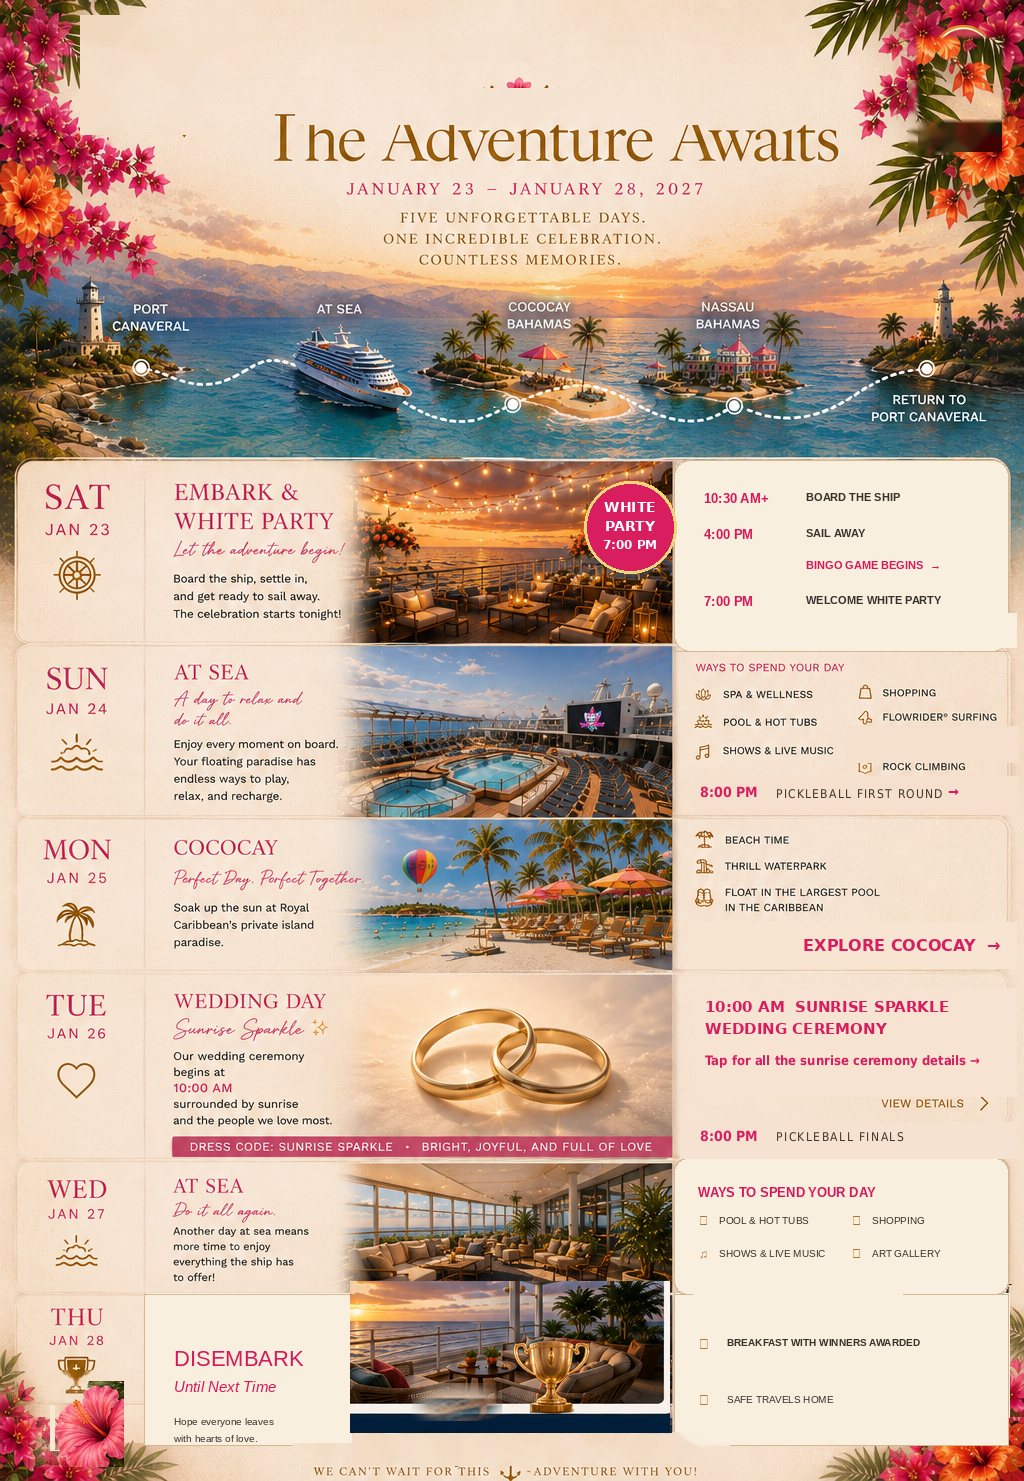
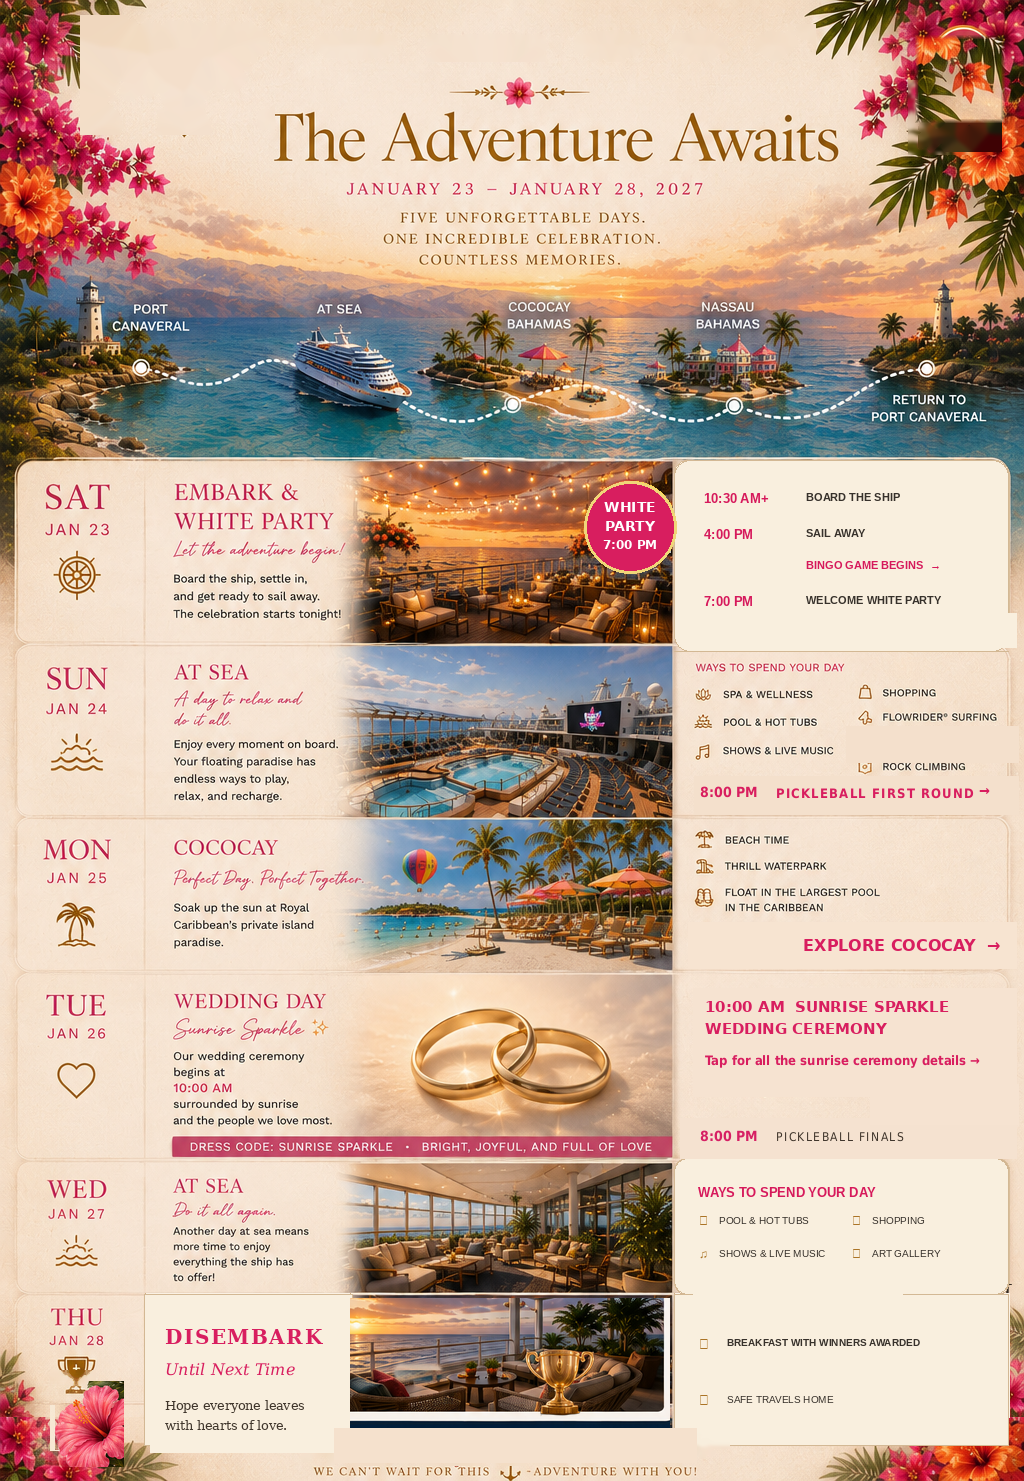
v35round2wesedits

diff --git a/wedding-day.html b/wedding-day.html
@@ -1,8 +1,8 @@
-<!doctype html><html lang="en"><head><meta charset="utf-8"><meta name="viewport" content="width=device-width,initial-scale=1"><title>Wedding Day | Julia & Wesley</title><link rel="preconnect" href="https://fonts.googleapis.com"><link rel="preconnect" href="https://fonts.gstatic.com" crossorigin><link href="https://fonts.googleapis.com/css2?family=Great+Vibes&family=Playfair+Display:ital,wght@0,600;0,700;1,600&display=swap" rel="stylesheet"><link rel="stylesheet" href="css/site.css?v=34"></head><body>
+<!doctype html><html lang="en"><head><meta charset="utf-8"><meta name="viewport" content="width=device-width,initial-scale=1"><title>Wedding Day | Julia & Wesley</title><link rel="preconnect" href="https://fonts.googleapis.com"><link rel="preconnect" href="https://fonts.gstatic.com" crossorigin><link href="https://fonts.googleapis.com/css2?family=Great+Vibes&family=Playfair+Display:ital,wght@0,600;0,700;1,600&display=swap" rel="stylesheet"><link rel="stylesheet" href="css/site.css?v=35"></head><body>
 <nav class="site-nav" aria-label="Primary navigation">
   <a class="sn-logo" href="index.html?skip=1"><span class="word">HARRISONS</span><span class="script">Set Sail</span><span class="anch">⚓</span></a>
   <div class="sn-links"><a href="index.html?skip=1">Home</a><a href="our-story.html">Our Story</a><a href="adventure.html" aria-current="page">The Adventure</a><a href="explore.html">Explore</a><a href="travel.html">Travel</a><a href="rsvp.html">RSVP</a></div>
   <a class="sn-badge" href="index.html?skip=1" aria-label="Home">⚓</a>
-</nav><main class="page-shell"><img class="approved-page" src="assets/approved/wedding-day-v2.png" alt="Wedding Day approved design"><a class="hotspot" aria-label="Room service — see how it works (Royal Caribbean)" href="https://www.royalcaribbean.com/cruise-dining/room-service" target="_blank" rel="noopener" style="left:51%;top:45.6%;width:16%;height:2%"></a>
-<a class="hotspot" aria-label="Room service menu and how it works (Royal Caribbean)" href="https://www.royalcaribbean.com/cruise-dining/room-service" target="_blank" rel="noopener" style="left:35%;top:93.2%;width:20%;height:1.8%"></a>
+</nav><main class="page-shell"><img class="approved-page" src="assets/approved/wedding-day-v2.png" alt="Wedding Day approved design"><a class="hotspot" aria-label="Room service — see how it works (Royal Caribbean)" href="https://www.royalcaribbean.com/cruise-dining/room-service" target="_blank" rel="noopener" style="left:54.8%;top:47.5%;width:14%;height:2.1%"></a>
+<a class="hotspot" aria-label="Room service menu and how it works (Royal Caribbean)" href="https://www.royalcaribbean.com/cruise-dining/room-service" target="_blank" rel="noopener" style="left:20%;top:94.8%;width:18.5%;height:2.1%"></a>
 </main></body></html>

diff --git a/adventure.html b/adventure.html
@@ -1,4 +1,4 @@
-<!doctype html><html lang="en"><head><meta charset="utf-8"><meta name="viewport" content="width=device-width,initial-scale=1"><title>The Adventure | Julia & Wesley</title><link rel="preconnect" href="https://fonts.googleapis.com"><link rel="preconnect" href="https://fonts.gstatic.com" crossorigin><link href="https://fonts.googleapis.com/css2?family=Great+Vibes&display=swap" rel="stylesheet"><link rel="stylesheet" href="css/site.css?v=34"></head><body>
+<!doctype html><html lang="en"><head><meta charset="utf-8"><meta name="viewport" content="width=device-width,initial-scale=1"><title>The Adventure | Julia & Wesley</title><link rel="preconnect" href="https://fonts.googleapis.com"><link rel="preconnect" href="https://fonts.gstatic.com" crossorigin><link href="https://fonts.googleapis.com/css2?family=Great+Vibes&display=swap" rel="stylesheet"><link rel="stylesheet" href="css/site.css?v=35"></head><body>
 <nav class="site-nav" aria-label="Primary navigation">
   <a class="sn-logo" href="index.html?skip=1"><span class="word">HARRISONS</span><span class="script">Set Sail</span><span class="anch">⚓</span></a>
   <div class="sn-links"><a href="index.html?skip=1">Home</a><a href="our-story.html">Our Story</a><a href="adventure.html" aria-current="page">The Adventure</a><a href="explore.html">Explore</a><a href="travel.html">Travel</a><a href="rsvp.html">RSVP</a></div>
@@ -8,7 +8,6 @@
 <a class="adventure-hotspot adventure-bingo-link" aria-label="Open Bingo Adventure" href="bingo.html" title="Bingo Adventure"></a>
 <a class="adventure-hotspot adventure-pickleball-link" aria-label="Open Pickleball Tournament" href="pickleball.html" title="Pickleball Tournament"></a>
 <a class="hotspot" aria-label="Explore CocoCay" href="cococay.html" style="left:74%;top:62.8%;width:25%;height:2.6%"></a><a class="hotspot" aria-label="Sunrise Sparkle wedding ceremony — all the details" href="wedding-day.html" style="left:66.5%;top:66.4%;width:32%;height:5.6%"></a>
-<a class="hotspot" aria-label="Wedding day — view details" href="wedding-day.html" style="left:82%;top:73.5%;width:16.5%;height:1.8%"></a>
 <a class="hotspot" aria-label="Pickleball first round — Sunday Jan 24, 8 PM" href="pickleball.html" style="left:66%;top:52.4%;width:32%;height:1.9%"></a>
 <a class="hotspot" aria-label="Bingo game begins" href="bingo.html" style="left:66%;top:37.2%;width:26%;height:1.8%"></a>
 </main></body></html>

diff --git a/cococay.html b/cococay.html
@@ -1,6 +1,7 @@
-<!doctype html><html lang="en"><head><meta charset="utf-8"><meta name="viewport" content="width=device-width,initial-scale=1"><title>Perfect Day at CocoCay | Julia & Wesley</title><link rel="preconnect" href="https://fonts.googleapis.com"><link rel="preconnect" href="https://fonts.gstatic.com" crossorigin><link href="https://fonts.googleapis.com/css2?family=Great+Vibes&family=Playfair+Display:ital,wght@0,600;0,700;1,600&display=swap" rel="stylesheet"><link rel="stylesheet" href="css/site.css?v=34"></head><body>
+<!doctype html><html lang="en"><head><meta charset="utf-8"><meta name="viewport" content="width=device-width,initial-scale=1"><title>Perfect Day at CocoCay | Julia & Wesley</title><link rel="preconnect" href="https://fonts.googleapis.com"><link rel="preconnect" href="https://fonts.gstatic.com" crossorigin><link href="https://fonts.googleapis.com/css2?family=Great+Vibes&family=Playfair+Display:ital,wght@0,600;0,700;1,600&display=swap" rel="stylesheet"><link rel="stylesheet" href="css/site.css?v=35"></head><body>
 <nav class="site-nav" aria-label="Primary navigation">
   <a class="sn-logo" href="index.html?skip=1"><span class="word">HARRISONS</span><span class="script">Set Sail</span><span class="anch">⚓</span></a>
   <div class="sn-links"><a href="index.html?skip=1">Home</a><a href="our-story.html">Our Story</a><a href="adventure.html" aria-current="page">The Adventure</a><a href="explore.html">Explore</a><a href="travel.html">Travel</a><a href="rsvp.html">RSVP</a></div>
   <a class="sn-badge" href="index.html?skip=1" aria-label="Home">⚓</a>
-</nav><main class="page-shell"><img class="approved-page" src="assets/approved/cococay-clean.png" alt="Perfect Day at CocoCay approved design"></main></body></html>
+</nav><main class="page-shell"><img class="approved-page" src="assets/approved/cococay-clean.png" alt="Perfect Day at CocoCay approved design"><a class="hotspot" aria-label="Back to the Adventure" href="adventure.html" style="left:1.8%;top:4.9%;width:18.5%;height:2.4%"></a>
+</main></body></html>

diff --git a/pickleball.html b/pickleball.html
@@ -1,4 +1,4 @@
-<!doctype html><html lang="en"><head><meta charset="utf-8"><meta name="viewport" content="width=device-width,initial-scale=1"><title>The Dink Before I Do | Julia & Wesley</title><link rel="preconnect" href="https://fonts.googleapis.com"><link rel="preconnect" href="https://fonts.gstatic.com" crossorigin><link href="https://fonts.googleapis.com/css2?family=Great+Vibes&family=Playfair+Display:ital,wght@0,600;0,700;1,600&display=swap" rel="stylesheet"><link rel="stylesheet" href="css/site.css?v=34"></head><body>
+<!doctype html><html lang="en"><head><meta charset="utf-8"><meta name="viewport" content="width=device-width,initial-scale=1"><title>The Dink Before I Do | Julia & Wesley</title><link rel="preconnect" href="https://fonts.googleapis.com"><link rel="preconnect" href="https://fonts.gstatic.com" crossorigin><link href="https://fonts.googleapis.com/css2?family=Great+Vibes&family=Playfair+Display:ital,wght@0,600;0,700;1,600&display=swap" rel="stylesheet"><link rel="stylesheet" href="css/site.css?v=35"></head><body>
 <nav class="site-nav" aria-label="Primary navigation">
   <a class="sn-logo" href="index.html?skip=1"><span class="word">HARRISONS</span><span class="script">Set Sail</span><span class="anch">⚓</span></a>
   <div class="sn-links"><a href="index.html?skip=1">Home</a><a href="our-story.html">Our Story</a><a href="adventure.html" aria-current="page">The Adventure</a><a href="explore.html">Explore</a><a href="travel.html">Travel</a><a href="rsvp.html">RSVP</a></div>

diff --git a/explore.html b/explore.html
@@ -1,4 +1,4 @@
-<!doctype html><html lang="en"><head><meta charset="utf-8"><meta name="viewport" content="width=device-width,initial-scale=1"><title>Explore the Ship | Julia & Wesley</title><link rel="preconnect" href="https://fonts.googleapis.com"><link rel="preconnect" href="https://fonts.gstatic.com" crossorigin><link href="https://fonts.googleapis.com/css2?family=Great+Vibes&family=Playfair+Display:ital,wght@0,600;0,700;1,600&display=swap" rel="stylesheet"><link rel="stylesheet" href="css/site.css?v=34"></head><body>
+<!doctype html><html lang="en"><head><meta charset="utf-8"><meta name="viewport" content="width=device-width,initial-scale=1"><title>Explore the Ship | Julia & Wesley</title><link rel="preconnect" href="https://fonts.googleapis.com"><link rel="preconnect" href="https://fonts.gstatic.com" crossorigin><link href="https://fonts.googleapis.com/css2?family=Great+Vibes&family=Playfair+Display:ital,wght@0,600;0,700;1,600&display=swap" rel="stylesheet"><link rel="stylesheet" href="css/site.css?v=35"></head><body>
 <nav class="site-nav" aria-label="Primary navigation">
   <a class="sn-logo" href="index.html?skip=1"><span class="word">HARRISONS</span><span class="script">Set Sail</span><span class="anch">⚓</span></a>
   <div class="sn-links"><a href="index.html?skip=1">Home</a><a href="our-story.html">Our Story</a><a href="adventure.html">The Adventure</a><a href="explore.html" aria-current="page">Explore</a><a href="travel.html">Travel</a><a href="rsvp.html">RSVP</a></div>

diff --git a/our-story.html b/our-story.html
@@ -1,4 +1,4 @@
-<!doctype html><html lang="en"><head><meta charset="utf-8"><meta name="viewport" content="width=device-width,initial-scale=1"><title>Our Story | Julia & Wesley</title><link rel="preconnect" href="https://fonts.googleapis.com"><link rel="preconnect" href="https://fonts.gstatic.com" crossorigin><link href="https://fonts.googleapis.com/css2?family=Great+Vibes&family=Playfair+Display:ital,wght@0,600;0,700;1,600&display=swap" rel="stylesheet"><link rel="stylesheet" href="css/site.css?v=34"></head><body>
+<!doctype html><html lang="en"><head><meta charset="utf-8"><meta name="viewport" content="width=device-width,initial-scale=1"><title>Our Story | Julia & Wesley</title><link rel="preconnect" href="https://fonts.googleapis.com"><link rel="preconnect" href="https://fonts.gstatic.com" crossorigin><link href="https://fonts.googleapis.com/css2?family=Great+Vibes&family=Playfair+Display:ital,wght@0,600;0,700;1,600&display=swap" rel="stylesheet"><link rel="stylesheet" href="css/site.css?v=35"></head><body>
 <nav class="site-nav" aria-label="Primary navigation">
   <a class="sn-logo" href="index.html?skip=1"><span class="word">HARRISONS</span><span class="script">Set Sail</span><span class="anch">⚓</span></a>
   <div class="sn-links"><a href="index.html?skip=1">Home</a><a href="our-story.html" aria-current="page">Our Story</a><a href="adventure.html">The Adventure</a><a href="explore.html">Explore</a><a href="travel.html">Travel</a><a href="rsvp.html">RSVP</a></div>

diff --git a/bingo.html b/bingo.html
@@ -1,4 +1,4 @@
-<!doctype html><html lang="en"><head><meta charset="utf-8"><meta name="viewport" content="width=device-width,initial-scale=1"><title>Bingo | Julia & Wesley</title><link rel="preconnect" href="https://fonts.googleapis.com"><link rel="preconnect" href="https://fonts.gstatic.com" crossorigin><link href="https://fonts.googleapis.com/css2?family=Great+Vibes&family=Playfair+Display:ital,wght@0,600;0,700;1,600&display=swap" rel="stylesheet"><link rel="stylesheet" href="css/site.css?v=34"></head><body>
+<!doctype html><html lang="en"><head><meta charset="utf-8"><meta name="viewport" content="width=device-width,initial-scale=1"><title>Bingo | Julia & Wesley</title><link rel="preconnect" href="https://fonts.googleapis.com"><link rel="preconnect" href="https://fonts.gstatic.com" crossorigin><link href="https://fonts.googleapis.com/css2?family=Great+Vibes&family=Playfair+Display:ital,wght@0,600;0,700;1,600&display=swap" rel="stylesheet"><link rel="stylesheet" href="css/site.css?v=35"></head><body>
 <nav class="site-nav" aria-label="Primary navigation">
   <a class="sn-logo" href="index.html?skip=1"><span class="word">HARRISONS</span><span class="script">Set Sail</span><span class="anch">⚓</span></a>
   <div class="sn-links"><a href="index.html?skip=1">Home</a><a href="our-story.html">Our Story</a><a href="adventure.html" aria-current="page">The Adventure</a><a href="explore.html">Explore</a><a href="travel.html">Travel</a><a href="rsvp.html">RSVP</a></div>

diff --git a/rsvp.html b/rsvp.html
@@ -1,4 +1,4 @@
-<!doctype html><html lang="en"><head><meta charset="utf-8"><meta name="viewport" content="width=device-width,initial-scale=1"><title>RSVP | Julia & Wesley</title><link rel="preconnect" href="https://fonts.googleapis.com"><link rel="preconnect" href="https://fonts.gstatic.com" crossorigin><link href="https://fonts.googleapis.com/css2?family=Great+Vibes&family=Playfair+Display:ital,wght@0,600;0,700;1,600&display=swap" rel="stylesheet"><link rel="stylesheet" href="css/site.css?v=34"></head>
+<!doctype html><html lang="en"><head><meta charset="utf-8"><meta name="viewport" content="width=device-width,initial-scale=1"><title>RSVP | Julia & Wesley</title><link rel="preconnect" href="https://fonts.googleapis.com"><link rel="preconnect" href="https://fonts.gstatic.com" crossorigin><link href="https://fonts.googleapis.com/css2?family=Great+Vibes&family=Playfair+Display:ital,wght@0,600;0,700;1,600&display=swap" rel="stylesheet"><link rel="stylesheet" href="css/site.css?v=35"></head>
 <body class="rsvp2-body">
 <nav class="site-nav" aria-label="Primary navigation">
   <a class="sn-logo" href="index.html?skip=1"><span class="word">HARRISONS</span><span class="script">Set Sail</span><span class="anch">⚓</span></a>

diff --git a/travel.html b/travel.html
@@ -1,5 +1,5 @@
 <!doctype html><html lang="en"><head><meta charset="utf-8"><meta name="viewport" content="width=device-width,initial-scale=1"><title>Travel & Booking | Julia & Wesley</title>
-<link rel="preconnect" href="https://fonts.googleapis.com"><link rel="preconnect" href="https://fonts.gstatic.com" crossorigin><link href="https://fonts.googleapis.com/css2?family=Great+Vibes&family=Playfair+Display:ital,wght@0,600;0,700;1,600&display=swap" rel="stylesheet"><link rel="stylesheet" href="css/site.css?v=34">
+<link rel="preconnect" href="https://fonts.googleapis.com"><link rel="preconnect" href="https://fonts.gstatic.com" crossorigin><link href="https://fonts.googleapis.com/css2?family=Great+Vibes&family=Playfair+Display:ital,wght@0,600;0,700;1,600&display=swap" rel="stylesheet"><link rel="stylesheet" href="css/site.css?v=35">
 </head><body class="tv-body">
 <nav class="site-nav" aria-label="Primary navigation">
   <a class="sn-logo" href="index.html?skip=1"><span class="word">HARRISONS</span><span class="script">Set Sail</span><span class="anch">⚓</span></a>

diff --git a/index.html b/index.html
@@ -1,7 +1,7 @@
 <!doctype html><html lang="en"><head><meta charset="utf-8"><meta name="viewport" content="width=device-width,initial-scale=1"><title>Julia & Wesley</title>
 <link rel="preconnect" href="https://fonts.googleapis.com"><link rel="preconnect" href="https://fonts.gstatic.com" crossorigin>
 <link href="https://fonts.googleapis.com/css2?family=Great+Vibes&family=Playfair+Display:ital,wght@0,600;0,700;1,600&display=swap" rel="stylesheet">
-<link rel="stylesheet" href="css/site.css?v=34"></head><body>
+<link rel="stylesheet" href="css/site.css?v=35"></head><body>
 
 <section class="gate3" id="welcome-gate" aria-labelledby="welcome-title">
   <div class="gate3-card">
